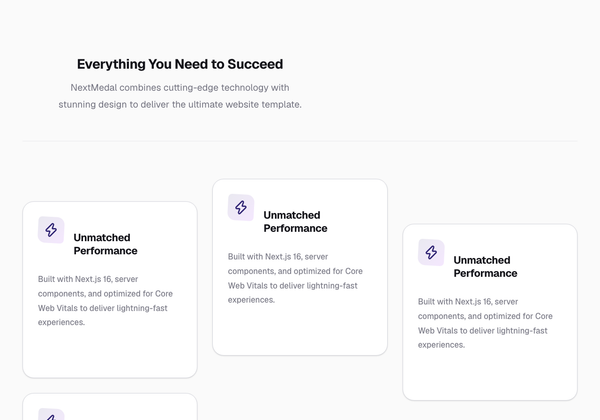
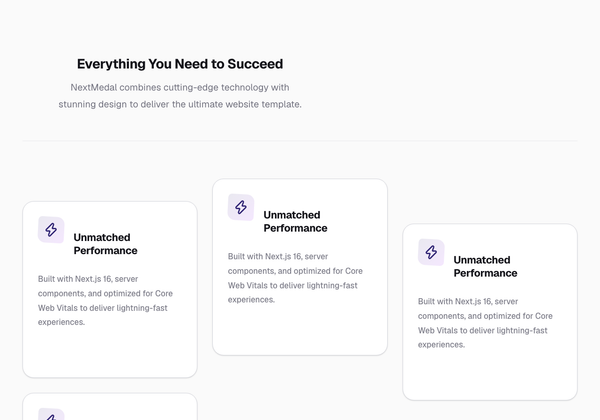
fix(nextmedal): keep alt on pictures; plain link labels; two buttons max; re-shot previews (review)
Img passes alt after the prop spread, so alt={undefined} keeps alt="".
Links read "Page on this site" / "Other website" and preview with the
page name. Message with buttons allows two buttons. Feature grid preview
is shot with reduced motion; the changelog preview comes from a local
render with sample entries (the live list is empty).

diff --git a/src/sanity/schemaTypes/objects/menu-item.tsx b/src/sanity/schemaTypes/objects/menu-item.tsx
@@ -17,17 +17,17 @@ import { MenuItemInput } from '../../components/MenuItemInput';
 
 export default defineType({
   name: 'menuItem',
-  title: 'Menu Item',
+  title: 'Link',
   icon: LinkIcon,
   type: 'object',
   components: {
     input: MenuItemInput,
   },
-  description: 'Internal or external link with optional icon and label',
+  description: 'A link to a page on this site or to another website.',
   fieldsets: [
     {
       name: 'destination',
-      title: 'Destination',
+      title: 'Where it goes',
       options: { collapsible: false },
     },
     {
@@ -40,20 +40,19 @@ export default defineType({
     defineField({
       name: 'label',
       title: 'Text',
-      description: 'The text that will be displayed for this link',
+      description: 'The words people click.',
       type: 'string',
       validation: (Rule) => Rule.required(),
     }),
     defineField({
       name: 'type',
-      title: 'Link Type',
-      description: 'Choose where this link should point to',
+      title: 'Link to',
       type: 'string',
       options: {
         layout: 'radio',
         list: [
-          { title: 'Internal Page', value: 'internal' },
-          { title: 'External Website', value: 'external' },
+          { title: 'Page on this site', value: 'internal' },
+          { title: 'Other website', value: 'external' },
         ],
       },
       validation: (Rule) => Rule.required(),
@@ -62,8 +61,7 @@ export default defineType({
     }),
     defineField({
       name: 'internal',
-      title: 'Internal Page',
-      description: 'Select a page within this website',
+      title: 'Page',
       type: 'reference',
       to: [{ type: 'page' }, { type: 'collection.article' }],
       validation: (Rule) =>
@@ -79,8 +77,7 @@ export default defineType({
     }),
     defineField({
       name: 'external',
-      title: 'External URL',
-      description: 'Enter a link to an external website',
+      title: 'Web address',
       placeholder: 'https://example.com',
       type: 'url',
       validation: (Rule) =>
@@ -128,7 +125,7 @@ export default defineType({
     defineField({
       name: 'newTab',
       title: 'Open in new tab',
-      description: 'Open link in a new browser tab',
+      description: 'Opens the link in a new browser tab.',
       type: 'boolean',
       initialValue: false,
       fieldset: 'advanced',
@@ -139,17 +136,19 @@ export default defineType({
       label: 'label',
       _type: 'internal._type',
       title: 'internal.title',
+      pageName: 'internal.metadata.title',
       internal: 'internal.metadata.slug.current',
       params: 'params',
       external: 'external',
     },
-    prepare: ({ label, title, _type, internal, params, external }) => {
+    prepare: ({ label, title, pageName, _type, internal, params, external }) => {
       const _resolvedUrl = resolveSlug({ _type, internal, params, external });
-      const linkType = external ? 'External' : 'Internal';
-      const destination = external || title || internal || 'Untitled Page';
+      const linkType = external ? 'Other website' : 'Page on this site';
+      const name = title || pageName;
+      const destination = external || name || internal || 'No page chosen';
 
       return {
-        title: label || title || 'Untitled Link',
+        title: label || name || 'Link',
         subtitle: `${linkType} → ${destination}`,
         media: LinkIcon,
       };

diff --git a/src/sanity/components/MenuItemInput.tsx b/src/sanity/components/MenuItemInput.tsx
@@ -64,7 +64,7 @@ export function MenuItemInput(props: ObjectInputProps) {
       <Grid gridTemplateColumns={[1, 1, 2]} gap={4}>
         <Box>
           <Label size={1} style={{ marginBottom: '8px' }}>
-            Link Text
+            Link text
           </Label>
           <TextInput
             value={value?.label || ''}
@@ -76,7 +76,7 @@ export function MenuItemInput(props: ObjectInputProps) {
         </Box>
         <Box>
           <Label size={1} style={{ marginBottom: '8px' }}>
-            Type
+            Link to
           </Label>
           <Flex
             style={{
@@ -91,7 +91,7 @@ export function MenuItemInput(props: ObjectInputProps) {
                 mode={isInternal ? 'default' : 'bleed'}
                 tone={isInternal ? 'primary' : 'default'}
                 icon={LinkIcon}
-                text="Internal"
+                text="This site"
                 fontSize={1}
                 padding={2}
                 onClick={() => handleToggleLinkType('internal')}
@@ -106,7 +106,7 @@ export function MenuItemInput(props: ObjectInputProps) {
                 mode={!isInternal ? 'default' : 'bleed'}
                 tone={!isInternal ? 'primary' : 'default'}
                 icon={EarthGlobeIcon}
-                text="External"
+                text="Other website"
                 fontSize={1}
                 padding={2}
                 onClick={() => handleToggleLinkType('external')}
@@ -120,7 +120,7 @@ export function MenuItemInput(props: ObjectInputProps) {
       {/* ROW 2: Destination */}
       <Box>
         <Label size={1} style={{ marginBottom: '8px' }}>
-          Destination
+          {isInternal ? 'Page' : 'Web address'}
         </Label>
         {isInternal ? (
           <Box>
@@ -157,7 +157,7 @@ export function MenuItemInput(props: ObjectInputProps) {
         {/* Increased gap here */}
         <Box>
           <Label size={1} style={{ marginBottom: '8px' }}>
-            Section (Optional)
+            Section (optional)
           </Label>
           {isInternal && anchors.length > 0 ? (
             <Select
@@ -175,7 +175,7 @@ export function MenuItemInput(props: ObjectInputProps) {
             </Select>
           ) : (
             <TextInput
-              placeholder="#section-id"
+              placeholder="e.g. features"
               value={value?.params || ''}
               onChange={(e) => handleFieldChange('params', e.currentTarget.value)}
               fontSize={2}

diff --git a/scripts/lean-schema/capture-block-previews.ts b/scripts/lean-schema/capture-block-previews.ts
@@ -7,6 +7,16 @@
 // dev-only harness /dev/flipbook (the real Flipbook component with the
 // fixture PDF), so it needs `pnpm dev` running: LOCAL_URL (default
 // http://localhost:3000). Pass block names to shoot only those.
+//
+// changelog-frontpage: www.nextmedal.com and staging show "No changelog
+// entries yet" (2026-10-19: the 3 stored entries have no collection
+// reference and use an old shape). Its preview was shot from a temporary,
+// uncommitted dev page that rendered the real ChangelogList (timeline,
+// grouped by year) with two sample entries under a "Changelog" heading and
+// the RSS link, at /dev/changelog-preview; recreate it to re-shoot.
+//
+// The page opens with reduced motion, so motion/react blocks (feature cards)
+// render in their final state instead of mid-reveal.
 import { mkdirSync } from 'node:fs';
 import { resolve } from 'node:path';
 import { chromium, type Locator, type Page } from '@playwright/test';
@@ -75,7 +85,7 @@ const SOURCES: Record<string, { path: string; selector: string; local?: boolean 
   'logo-cloud': { path: '/', selector: '[data-module="logo-cloud"]' },
   'pricing-list': { path: '/pricing', selector: '[data-module="pricing-list"]' },
   'articles-frontpage': { path: '/now', selector: '[data-module="articles-frontpage"]' },
-  'changelog-frontpage': { path: '/changelog', selector: '[data-module="changelog-frontpage"]' },
+  'changelog-frontpage': { path: '/dev/changelog-preview', selector: 'main section', local: true },
   // The docs list renders its own layout without a data-module wrapper.
   'docs-frontpage': { path: '/docs', selector: 'main' },
   'events-frontpage': { path: '/events', selector: '[data-module="events-frontpage"]' },
@@ -86,7 +96,7 @@ async function main() {
   mkdirSync(OUT, { recursive: true });
   const only = process.argv.slice(2);
   const browser = await chromium.launch();
-  const page = await browser.newPage({ viewport: VIEWPORT });
+  const page = await browser.newPage({ viewport: VIEWPORT, reducedMotion: 'reduce' });
   for (const [name, source] of Object.entries(SOURCES)) {
     if (only.length && !only.includes(name)) continue;
     // load / networkidle never settle on some pages; wait for fonts and the block's pictures instead.

diff --git a/tests/unit/sanity/menu-item-schema.test.ts b/tests/unit/sanity/menu-item-schema.test.ts
@@ -1,0 +1,54 @@
+import { describe, expect, it } from 'vitest';
+import callout from '@/sanity/schemaTypes/modules/marketing/callout';
+import menuItem from '@/sanity/schemaTypes/objects/menu-item';
+
+type Field = {
+  name: string;
+  title?: string;
+  options?: { list?: Array<{ title: string; value: string }> };
+  validation?: (rule: unknown) => unknown;
+};
+const item = menuItem as unknown as {
+  title: string;
+  fields: Field[];
+  preview: {
+    select: Record<string, string>;
+    prepare: (v: Record<string, unknown>) => { title: string; subtitle: string };
+  };
+};
+const field = (name: string) => item.fields.find((f) => f.name === name);
+
+describe('link (menuItem) labels', () => {
+  it('uses plain words', () => {
+    expect(item.title).toBe('Link');
+    expect(field('type')?.title).toBe('Link to');
+    expect(field('type')?.options?.list?.map((o) => o.title)).toEqual([
+      'Page on this site',
+      'Other website',
+    ]);
+  });
+
+  it('previews with the page name when the old page title is missing', () => {
+    expect(item.preview.select.pageName).toBe('internal.metadata.title');
+    const preview = item.preview.prepare({ pageName: 'Pricing', internal: 'pricing' });
+    expect(preview).toMatchObject({ title: 'Pricing', subtitle: 'Page on this site → Pricing' });
+    expect(item.preview.prepare({ external: 'https://x.com' }).subtitle).toBe(
+      'Other website → https://x.com'
+    );
+  });
+});
+
+describe('message with buttons', () => {
+  it('allows at most two buttons', () => {
+    const ctas = (callout as unknown as { fields: Field[] }).fields.find((f) => f.name === 'ctas');
+    let max: number | undefined;
+    const rule = {
+      max: (n: number) => {
+        max = n;
+        return rule;
+      },
+    };
+    ctas?.validation?.(rule);
+    expect(max).toBe(2);
+  });
+});

diff --git a/src/components/blocks/objects/core/Img.tsx b/src/components/blocks/objects/core/Img.tsx
@@ -76,8 +76,10 @@ function renderDirectImage(
     targetHeight
   );
 
+  // alt after the spread: an `alt={undefined}` prop must not remove the attribute.
+  const { alt, ...rest } = props;
   const imageElement = (
-    <Image src={src} width={width} height={height} alt={props.alt || image.alt || ''} {...props} />
+    <Image src={src} width={width} height={height} {...rest} alt={alt || image.alt || ''} />
   );
 
   return wrapWithSanityContainer(imageElement, props['data-sanity'], props.className);
@@ -123,6 +125,7 @@ export function Img({
   if (!generatedSrc) return null;
 
   const { src, width, height } = generatedSrc;
+  const { alt, ...rest } = props;
   const isGif = src.includes('.gif');
   const isSvg = src.toLowerCase().endsWith('.svg');
 
@@ -150,10 +153,11 @@ export function Img({
       src={isGif ? src.split('?')[0] : src}
       width={props.fill ? undefined : width}
       height={props.fill ? undefined : height}
-      alt={props.alt || image.alt || image.altText || image.asset?.altText || ''}
       unoptimized={isGif || isSvg}
       {...blurProps}
-      {...props}
+      {...rest}
+      // After the spread: an `alt={undefined}` prop must not remove the attribute.
+      alt={alt || image.alt || image.altText || image.asset?.altText || ''}
       loading={validLoading}
     />
   );

diff --git a/src/sanity/components/CtaInput.tsx b/src/sanity/components/CtaInput.tsx
@@ -44,7 +44,7 @@ const AnchorSelector = ({
   if (anchors.length === 0) {
     return (
       <TextInput
-        placeholder="#section-id"
+        placeholder="e.g. features"
         value={value}
         onChange={(e) => onChange(e.currentTarget.value)}
         fontSize={2}
@@ -165,7 +165,7 @@ export function CtaInput(props: ObjectInputProps) {
       {/* ROW 3: The Actual Destination Input */}
       <Box>
         <Label size={1} style={{ marginBottom: '6px' }}>
-          Page
+          {isInternal ? 'Page' : 'Web address'}
         </Label>
         {isInternal ? (
           <Box>
@@ -200,7 +200,7 @@ export function CtaInput(props: ObjectInputProps) {
       <Grid gridTemplateColumns={[1, 1, 2]} gap={4}>
         <Box>
           <Label size={1} style={{ marginBottom: '6px' }}>
-            Section (Optional)
+            Section (optional)
           </Label>
           {isInternal ? (
             <AnchorSelector
@@ -210,7 +210,7 @@ export function CtaInput(props: ObjectInputProps) {
             />
           ) : (
             <TextInput
-              placeholder="#section-id"
+              placeholder="e.g. features"
               value={linkValue?.params || ''}
               onChange={(e) => handleLinkFieldChange('params', e.currentTarget.value)}
               fontSize={2}

diff --git a/tests/components/blocks/objects/Img-alt.test.tsx b/tests/components/blocks/objects/Img-alt.test.tsx
@@ -1,0 +1,33 @@
+import { renderToStaticMarkup } from 'react-dom/server';
+import { describe, expect, it } from 'vitest';
+import { Img } from '@/components/blocks/objects/core/Img';
+
+const sanityImage = {
+  _type: 'image',
+  asset: { _ref: 'image-Tb9Ew8CXIwaY6R1kjMvI0uRR-800x600-png', _type: 'reference' },
+} as unknown as Sanity.Image;
+const directImage = { src: 'https://example.com/a.png', width: 800, height: 600 } as never;
+
+const altOf = (html: string) => html.match(/<img[^>]*?\salt="([^"]*)"/)?.[1];
+
+describe.each([
+  ['a Sanity image', sanityImage],
+  ['a direct image', directImage],
+])('Img alt text for %s', (_, image) => {
+  it('keeps an empty alt when alt is passed as undefined', () => {
+    const html = renderToStaticMarkup(<Img image={image} alt={undefined} />);
+    expect(altOf(html)).toBe('');
+  });
+
+  it('uses the alt that is passed', () => {
+    const html = renderToStaticMarkup(<Img image={image} alt="Two people at a laptop" />);
+    expect(altOf(html)).toBe('Two people at a laptop');
+  });
+
+  it('falls back to the image alt', () => {
+    const html = renderToStaticMarkup(
+      <Img image={{ ...(image as object), alt: 'From the image' } as never} alt={undefined} />
+    );
+    expect(altOf(html)).toBe('From the image');
+  });
+});

diff --git a/src/sanity/components/ModulesInput.tsx b/src/sanity/components/ModulesInput.tsx
@@ -7,6 +7,10 @@
  * menu (All items, groups, search) from `props.schemaType.of`, and each
  * item's insert before / after menu from `member.parentSchemaType.of`, which
  * the form state sets to the unfiltered array type. Both are replaced here.
+ *
+ * Side effect: copy/paste checks pasted items against the filtered `of`, so
+ * pasting a hidden (old or developer) block into a page is refused. Stored
+ * ones keep rendering and validating; only new copies are blocked.
  */
 import { useMemo } from 'react';
 import type { ArrayOfObjectsInputProps, ArraySchemaType } from 'sanity';

diff --git a/src/sanity/schemaTypes/modules/marketing/callout.ts b/src/sanity/schemaTypes/modules/marketing/callout.ts
@@ -24,6 +24,7 @@ export default defineType({
       description: 'The first is a solid button, the second a quieter one.',
       type: 'array',
       of: [defineArrayMember({ type: 'cta' })],
+      validation: (Rule) => Rule.max(2),
     }),
   ],
   preview: blockPreview('Message with buttons', { title: 'content' }),
